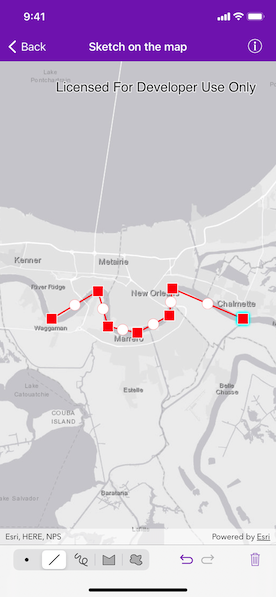
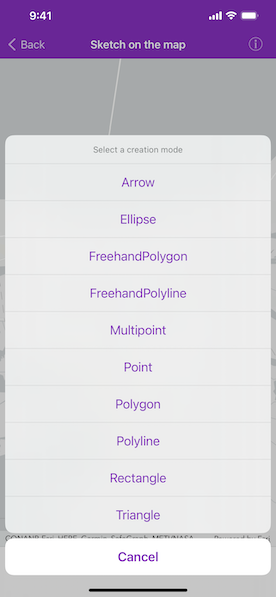
Update pictures and readme

diff --git a/arcgis-ios-sdk-samples/Display information/Sketch on the map/README.md b/arcgis-ios-sdk-samples/Display information/Sketch on the map/README.md
@@ -11,9 +11,7 @@ A field worker could annotate features of interest on a map (via the GUI) such a
 
 ## How to use the sample
 
-Choose which geometry type to sketch from one of the available buttons. Choose from points, multipoints, polylines, polygons, freehand polylines, and freehand polygons.
-
-Use the control panel to cancel the sketch, undo or redo changes made to the sketch and to save the sketch to the graphics overlay. There is also the option to select a saved graphic and edit its geometry using the Sketch Editor. The graphics overlay can be cleared using the clear all button.
+Tap the add button to choose a geometry for the Sketch Editor. Use the toolbar to cancel the sketch, undo, or redo changes made to the sketch and to save the sketch to the graphics overlay. There is also the option to select a saved graphic and edit its geometry using the Sketch Editor. The graphics overlay can be cleared using the clear all button.
 
 ## How it works
 
